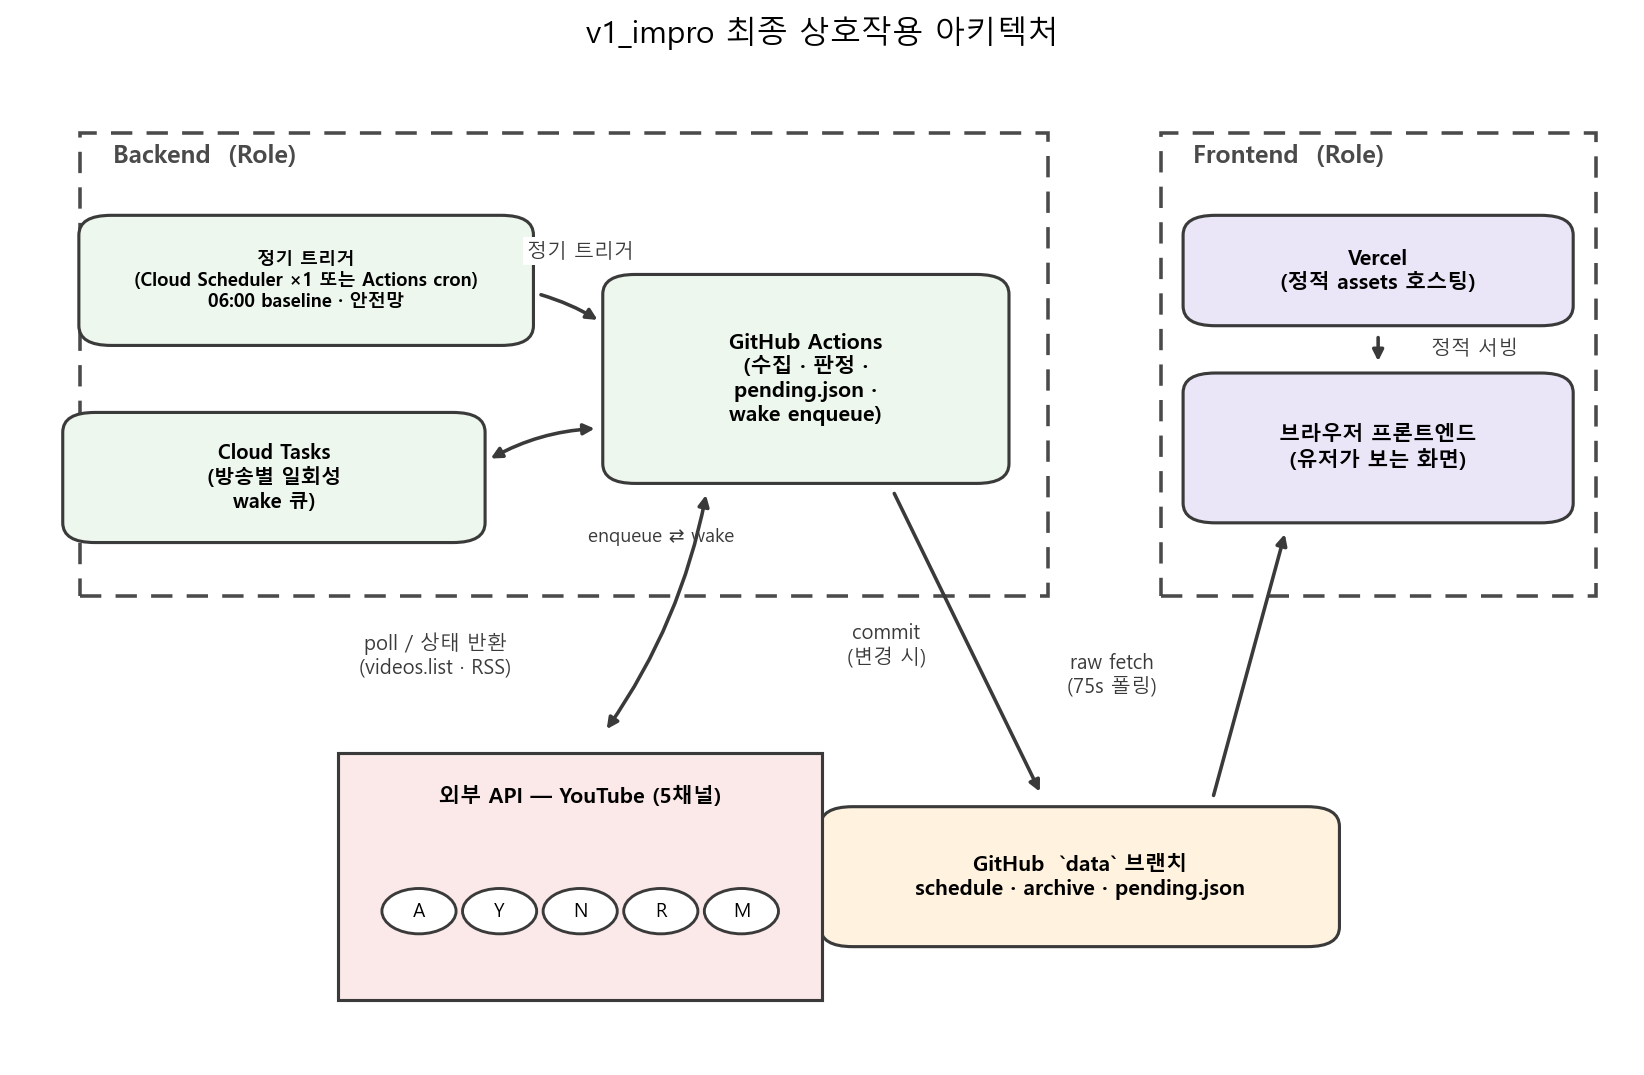
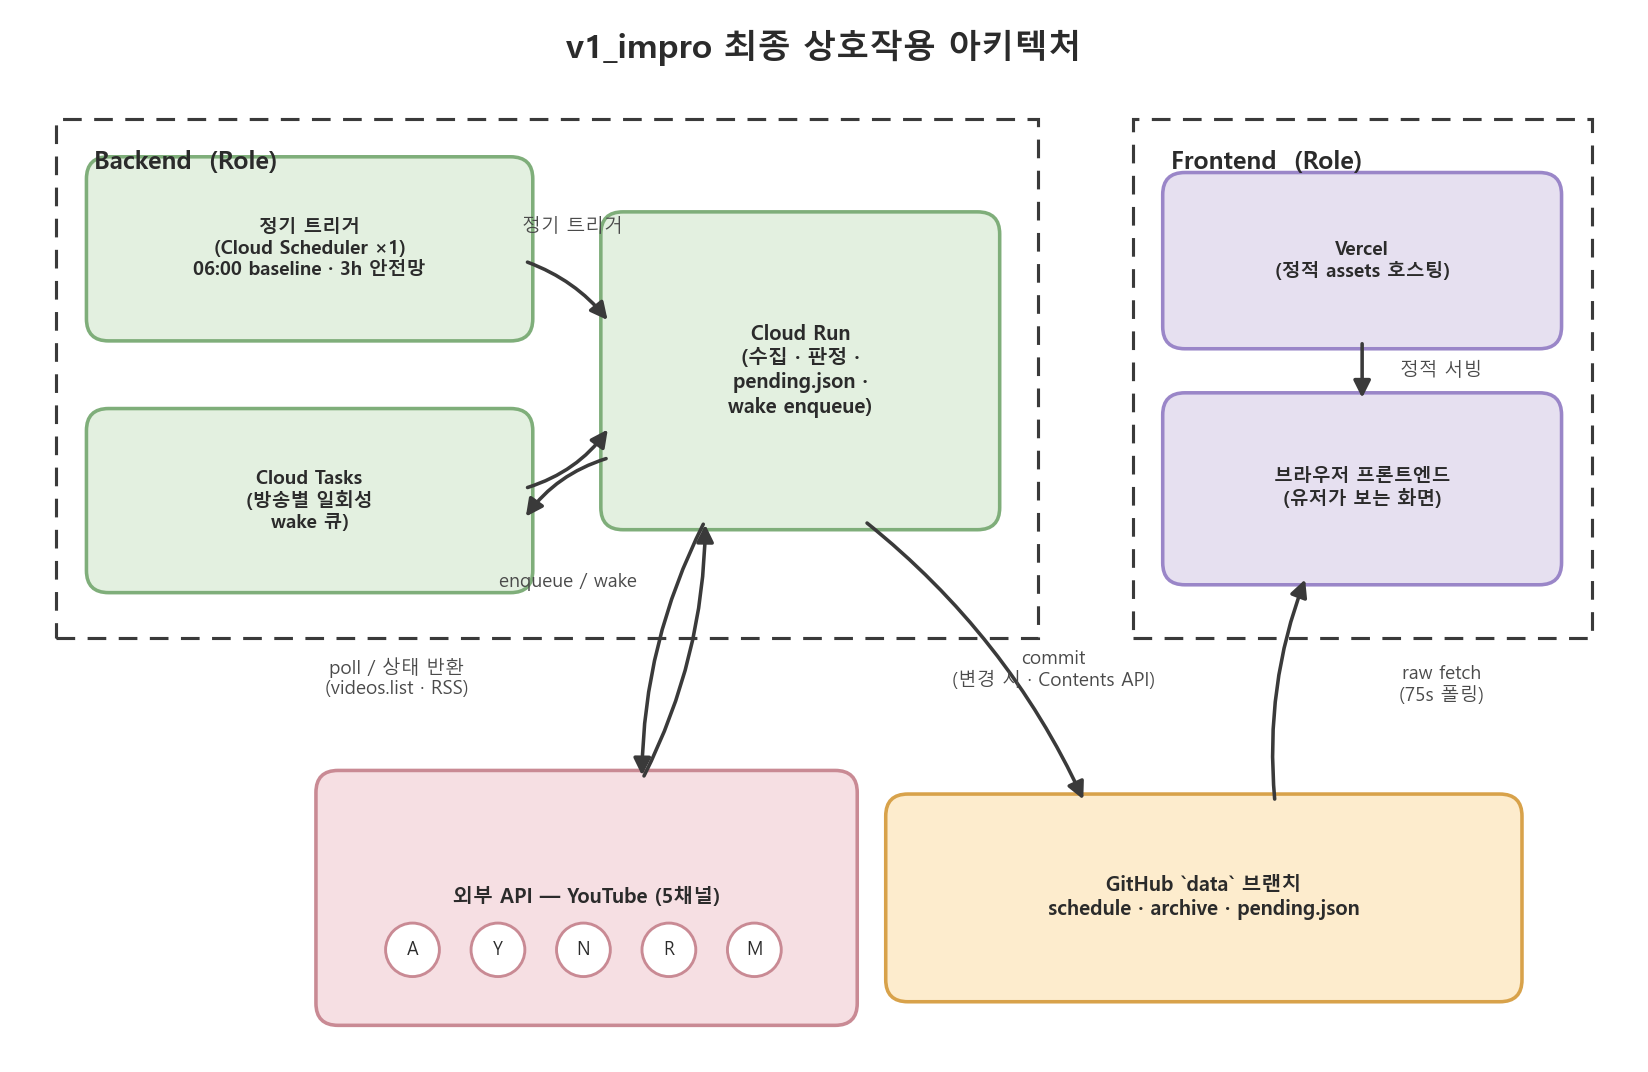
docs: 아키텍처 다이어그램 갱신 (GitHub Actions → Cloud Run)
v2.0 확정 반영: 백엔드 compute = Cloud Run, 정기 트리거 = Cloud Scheduler ×1,
commit 경로 = Contents API. 재현 가능하도록 matplotlib 생성 스크립트도 커밋.

Claude-Session: https://claude.ai/code/session_01AQYaNMq2CJZLPBU86mTZ2a

diff --git a/docs/plan/gen_architecture.py b/docs/plan/gen_architecture.py
@@ -1,0 +1,127 @@
+"""v1_impro_architecture.png 재생성 스크립트.
+
+v2.0 확정 아키텍처(docs/plan/v1_impro_final.md)를 그림으로. 백엔드 compute 를
+GitHub Actions → Cloud Run 으로 교체 반영.
+
+    python docs/plan/gen_architecture.py
+"""
+from __future__ import annotations
+
+import matplotlib
+
+matplotlib.use("Agg")
+import matplotlib.font_manager as fm
+import matplotlib.pyplot as plt
+from matplotlib.patches import FancyArrowPatch, FancyBboxPatch, Rectangle
+
+# ── 한글 폰트 ──
+for _name in ("Malgun Gothic", "AppleGothic", "NanumGothic", "Noto Sans CJK KR"):
+    if any(f.name == _name for f in fm.fontManager.ttflist):
+        plt.rcParams["font.family"] = _name
+        break
+plt.rcParams["axes.unicode_minus"] = False
+
+GREEN = "#e3f0e0"
+GREEN_E = "#7fae7a"
+PURPLE = "#e6e0f0"
+PURPLE_E = "#9a86c8"
+PINK = "#f6dfe3"
+PINK_E = "#c98a94"
+ORANGE = "#fdeccd"
+ORANGE_E = "#d8a24a"
+INK = "#2b2b2b"
+
+fig, ax = plt.subplots(figsize=(10.3, 6.7), dpi=160)
+ax.set_xlim(0, 103)
+ax.set_ylim(0, 67)
+ax.axis("off")
+
+
+def box(x, y, w, h, text, fc, ec, *, fs=9, bold=True):
+    ax.add_patch(
+        FancyBboxPatch(
+            (x, y), w, h,
+            boxstyle="round,pad=0.6,rounding_size=1.4",
+            fc=fc, ec=ec, lw=1.6,
+        )
+    )
+    ax.text(
+        x + w / 2, y + h / 2, text,
+        ha="center", va="center", fontsize=fs,
+        weight="bold" if bold else "normal", color=INK,
+    )
+
+
+def group(x, y, w, h, label):
+    ax.add_patch(
+        Rectangle((x, y), w, h, fill=False, ec="#3a3a3a", lw=1.4, ls=(0, (6, 4)))
+    )
+    ax.text(x + 2.4, y + h - 3.2, label, fontsize=11, weight="bold", color=INK)
+
+
+def arrow(p0, p1, *, rad=0.0, lw=1.6, ls="-"):
+    ax.add_patch(
+        FancyArrowPatch(
+            p0, p1,
+            connectionstyle=f"arc3,rad={rad}",
+            arrowstyle="-|>", mutation_scale=16,
+            lw=lw, ls=ls, color="#3a3a3a",
+        )
+    )
+
+
+def label(x, y, text, *, fs=8.5):
+    ax.text(x, y, text, ha="center", va="center", fontsize=fs, color="#4a4a4a")
+
+
+# ── 제목 ──
+ax.text(51.5, 64.5, "v1_impro 최종 상호작용 아키텍처",
+        ha="center", va="center", fontsize=15, weight="bold", color=INK)
+
+# ── Backend 그룹 ──
+group(3, 27, 62, 33, "Backend  (Role)")
+box(5.5, 46.5, 27, 10.5,
+    "정기 트리거\n(Cloud Scheduler ×1)\n06:00 baseline · 3h 안전망", GREEN, GREEN_E, fs=8.5)
+box(5.5, 30.5, 27, 10.5,
+    "Cloud Tasks\n(방송별 일회성\nwake 큐)", GREEN, GREEN_E, fs=8.5)
+box(38, 34.5, 24, 19,
+    "Cloud Run\n(수집 · 판정 ·\npending.json ·\nwake enqueue)", GREEN, GREEN_E, fs=9)
+
+arrow((32.5, 51), (38, 47), rad=-0.15)
+label(35.6, 53.2, "정기 트리거")
+arrow((32.5, 36.5), (38, 40.5), rad=0.18)
+arrow((38, 38.5), (32.5, 34.5), rad=0.18)
+label(35.3, 30.6, "enqueue / wake")
+
+# ── Frontend 그룹 ──
+group(71, 27, 29, 33, "Frontend  (Role)")
+box(73.5, 46, 24, 10, "Vercel\n(정적 assets 호스팅)", PURPLE, PURPLE_E, fs=8.5)
+box(73.5, 31, 24, 11, "브라우저 프론트엔드\n(유저가 보는 화면)", PURPLE, PURPLE_E, fs=8.5)
+arrow((85.5, 46), (85.5, 42), rad=0)
+label(90.5, 44, "정적 서빙")
+
+# ── 하단: 외부 API / data 브랜치 ──
+box(20, 3, 33, 15, "외부 API — YouTube (5채널)", PINK, PINK_E, fs=9)
+for i, ch in enumerate("AYNRM"):
+    cx = 25.5 + i * 5.4
+    ax.add_patch(plt.Circle((cx, 7.2), 1.7, fc="white", ec=PINK_E, lw=1.3))
+    ax.text(cx, 7.2, ch, ha="center", va="center", fontsize=8, color=INK)
+
+box(56, 4.5, 39, 12,
+    "GitHub `data` 브랜치\nschedule · archive · pending.json", ORANGE, ORANGE_E, fs=9)
+
+# ── 하단 연결선 ──
+arrow((44, 34.5), (40, 18), rad=0.12)
+arrow((40, 18), (44, 34.5), rad=0.12)
+label(24.5, 24.5, "poll / 상태 반환\n(videos.list · RSS)")
+
+arrow((54, 34.5), (68, 16.5), rad=-0.12)
+label(66, 25, "commit\n(변경 시 · Contents API)")
+
+arrow((80, 16.5), (82, 31), rad=-0.12)
+label(90.5, 24, "raw fetch\n(75s 폴링)")
+
+fig.tight_layout(pad=0.4)
+out = __file__.rsplit("/", 1)[0].rsplit("\\", 1)[0] + "/v1_impro_architecture.png"
+fig.savefig(out, dpi=160)
+print("wrote", out)
